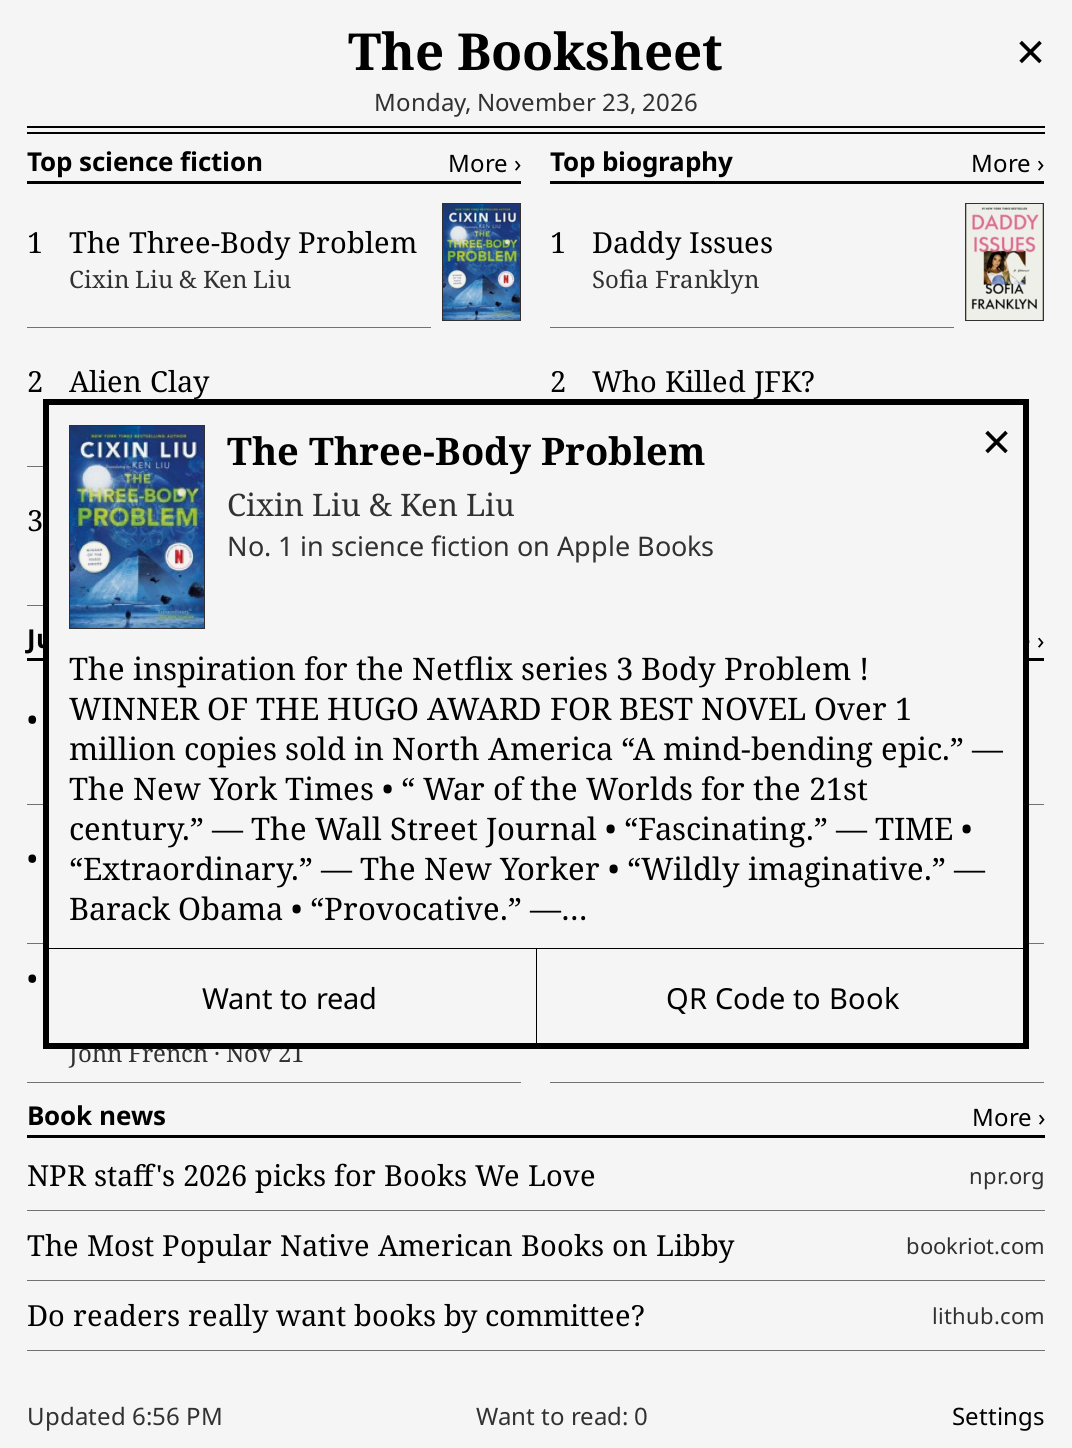
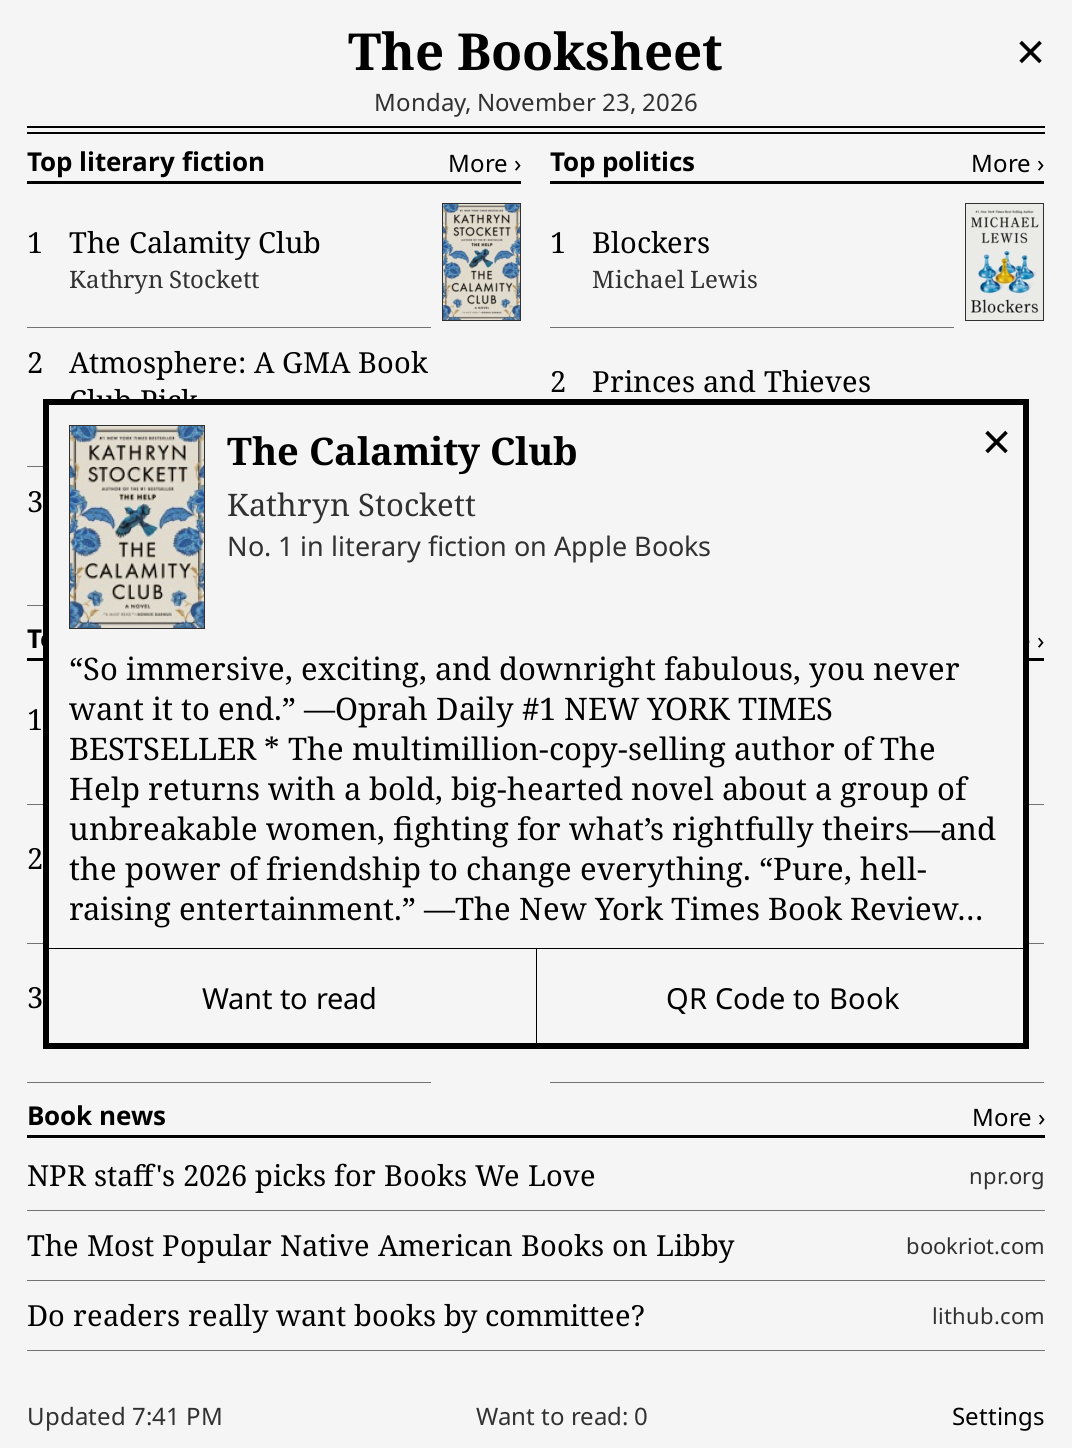
README: retake screenshots with new example sections
Show literary fiction, politics, horror and Reviewed this week across
the main page, pop-ups, Settings and the section chooser.

diff --git a/README.md b/README.md
@@ -40,7 +40,7 @@ It should be pretty self-explanatory. But just in case:
 
 | Tapping a book | Tapping a headline |
 |:---:|:---:|
-| ![A pop-up for The Three-Body Problem with its cover, author, list rank, description, and buttons for Want to read and QR Code to Book](images/book.png) | ![A pop-up for a Lit Hub article with its source, date, opening text, and buttons for Read article and QR Code to Article](images/article.png) |
+| ![A pop-up for The Calamity Club with its cover, author, list rank, description, and buttons for Want to read and QR Code to Book](images/book.png) | ![A pop-up for a Lit Hub article with its source, date, opening text, and buttons for Read article and QR Code to Article](images/article.png) |
 
 ### Book news
 
